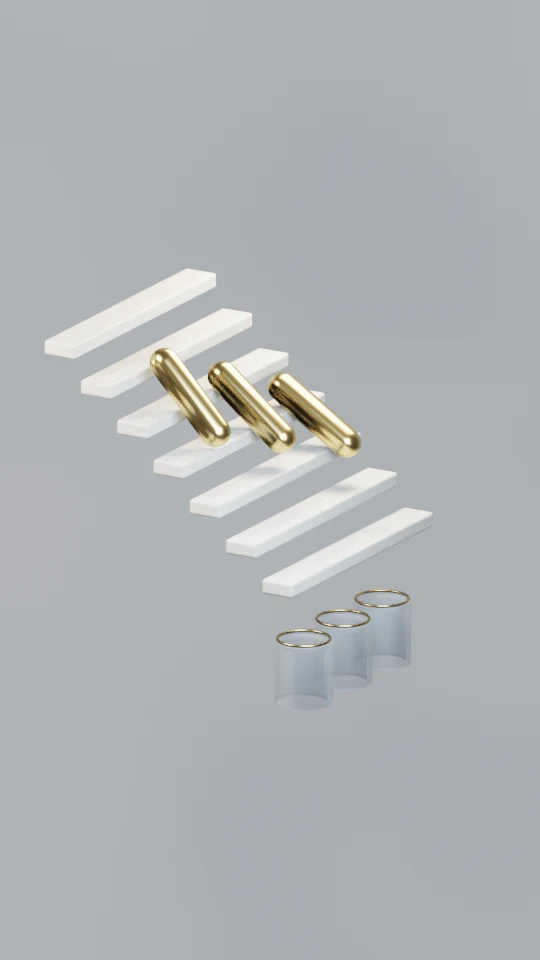
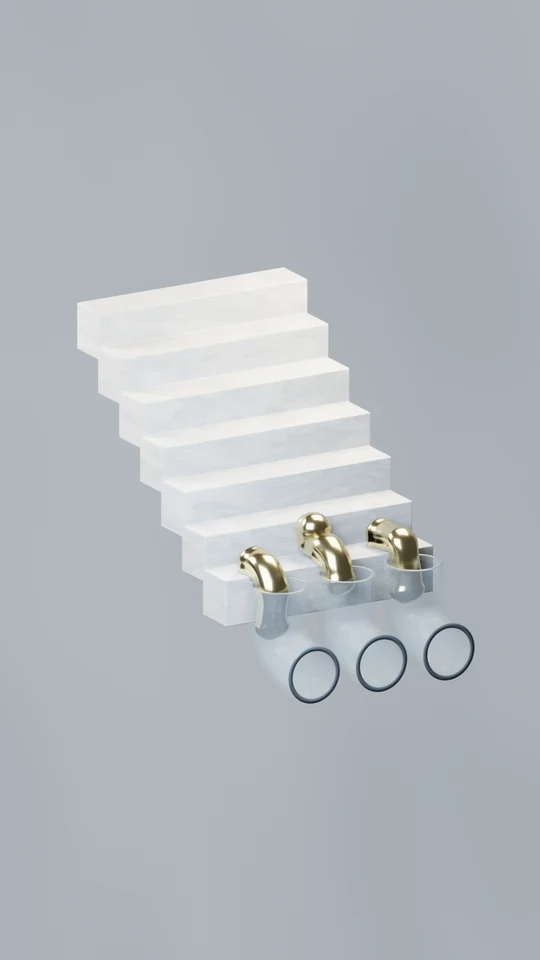
Stagger peg rows for repeated soft-body contacts

Changed region(s): [[0.0889, 0.2812, 0.8889, 0.75], [0.2074, 0.2812, 0.237, 0.3125]]

diff --git a/web/src/components/GameStudio.tsx b/web/src/components/GameStudio.tsx
@@ -134,7 +134,7 @@ const softBodyPaletteLabels: Record<string, string> = {
 const softBodyObstacles: { id: SoftBodyObstacle; label: string; description: string; image: string }[] = [
   { id: "auto", label: "Rotation automatique", description: "Alterner entre rampe, triple escalier, V et grille. Les trois scènes expérimentales restent manuelles.", image: "/game-previews/soft-body-slide.webp" },
   { id: "moving-slide", label: "Rampe mobile", description: "Glissades, relances et chute dans le tube.", image: "/game-previews/soft-body-obstacles/moving-slide.webp" },
-  { id: "stair-cascade", label: "Cascade de marches", description: "Rebonds successifs sur un escalier suspendu.", image: "/game-previews/soft-body-obstacles/stair-cascade.webp" },
+  { id: "stair-cascade", label: "Cascade de marches", description: "Trois corps, sept marches pleines et trois tubes courbés.", image: "/game-previews/soft-body-obstacles/stair-cascade.webp" },
   { id: "v-stairs", label: "Double escalier en V", description: "Deux descentes convergent vers le réceptacle.", image: "/game-previews/soft-body-obstacles/v-stairs.webp" },
   { id: "pipe-bend", label: "Coude de tuyau · bêta", description: "Test manuel : la forme boule de la référence reste à reconstruire.", image: "/game-previews/soft-body-obstacles/pipe-bend.webp" },
   { id: "peg-grid", label: "Grille de plots", description: "Compression et déviation entre plusieurs plots.", image: "/game-previews/soft-body-obstacles/peg-grid.webp" },

diff --git a/web/scripts/test_soft_body_surface_blender.py b/web/scripts/test_soft_body_surface_blender.py
@@ -377,6 +377,41 @@ class SurfaceContactTests(unittest.TestCase):
                 self.assertEqual(contacts["frames_checked"], frames)
                 self.assertEqual(contacts["issues"], [], contacts)
 
+    def test_grid_production_seed_staggers_both_lanes_into_repeated_contacts(self):
+        variant = variant_for_seed(2093973352, "peg-grid")
+        for softness, frames, stage, minimum_episodes in ((30, 180, 1, 3), (55, 210, 2, 5)):
+            with self.subTest(softness=softness):
+                simulations = renderer.simulate_specimens(softness, frames, 30, variant, stage)
+                for body, simulation in enumerate(simulations, start=1):
+                    quality = renderer.simulation_quality(simulation, variant)
+                    self.assertEqual(quality["issues"], [], (softness, body, quality))
+                    hit_indices = [
+                        index
+                        for index, sample in enumerate(simulation.physics_samples)
+                        if sample[1] >= 0.20
+                    ]
+                    contact_episodes = []
+                    for index in hit_indices:
+                        if not contact_episodes or index - contact_episodes[-1][-1] > 12:
+                            contact_episodes.append([index])
+                        else:
+                            contact_episodes[-1].append(index)
+                    self.assertGreaterEqual(
+                        len(contact_episodes), minimum_episodes,
+                        (softness, body, contact_episodes, quality),
+                    )
+                framing = renderer.inspect_simulation_framing(simulations, variant, 30)
+                self.assertEqual(framing["issues"], [], (softness, framing))
+
+    def test_grid_rows_are_staggered_without_changing_the_throat_width(self):
+        circles = renderer.static_obstacle_circles("peg-grid")
+        rows = [circles[index * 6:(index + 1) * 6] for index in range(5)]
+        self.assertEqual([round(row[0][0].x, 2) for row in rows], [-1.60, -1.44, -1.60, -1.76, -1.60])
+        for row in rows:
+            openings = [right[0].x - left[0].x - left[1] - right[1] for left, right in zip(row, row[1:])]
+            # mathutils.Vector stores single-precision coordinates in Blender.
+            self.assertTrue(all(abs(opening - 0.44) < 1e-6 for opening in openings), openings)
+
     def test_grid_throat_is_solvable_for_every_partly_soft_shape(self):
         left, right = renderer.static_obstacle_circles("peg-grid")[:2]
         opening = right[0].x - left[0].x - left[1] - right[1]

diff --git a/web/scripts/blender-soft-body-slide.py b/web/scripts/blender-soft-body-slide.py
@@ -394,12 +394,20 @@ def static_obstacle_circles(key: str):
         circles = []
         for row in range(5):
             z = 5.15 - row * 0.62
+            # A perfectly aligned lattice leaves uninterrupted vertical
+            # corridors at x=+/-0.64.  A sufficiently soft specimen could then
+            # miss all five rows without a single interaction.  Real peg-board
+            # challenges stagger successive rows: alternate a small quarter-gap
+            # offset so both reference lanes meet a peg from alternating sides.
+            # This creates repeated, unscripted compression contacts while
+            # preserving the same 0.44 opening and visible/collision geometry.
+            row_offset = 0.0 if row % 2 == 0 else (0.16 if row % 4 == 1 else -0.16)
             for column in range(6):
                 # A 0.44 opening accepts the flattened 15/25% presets while
                 # remaining narrower than the rigid 0.45-0.468 diameter.
                 # The old 0.41 throat trapped the 15% section between two
                 # incompatible circle projections, folding and ejecting it.
-                circles.append((Vector((-1.60 + column * 0.64, z)), 0.10, Vector((0.0, 0.0)), 0.0))
+                circles.append((Vector((-1.60 + row_offset + column * 0.64, z)), 0.10, Vector((0.0, 0.0)), 0.0))
         return tuple(circles)
     if key == "twin-gears":
         speed = math.tau / 3.40
